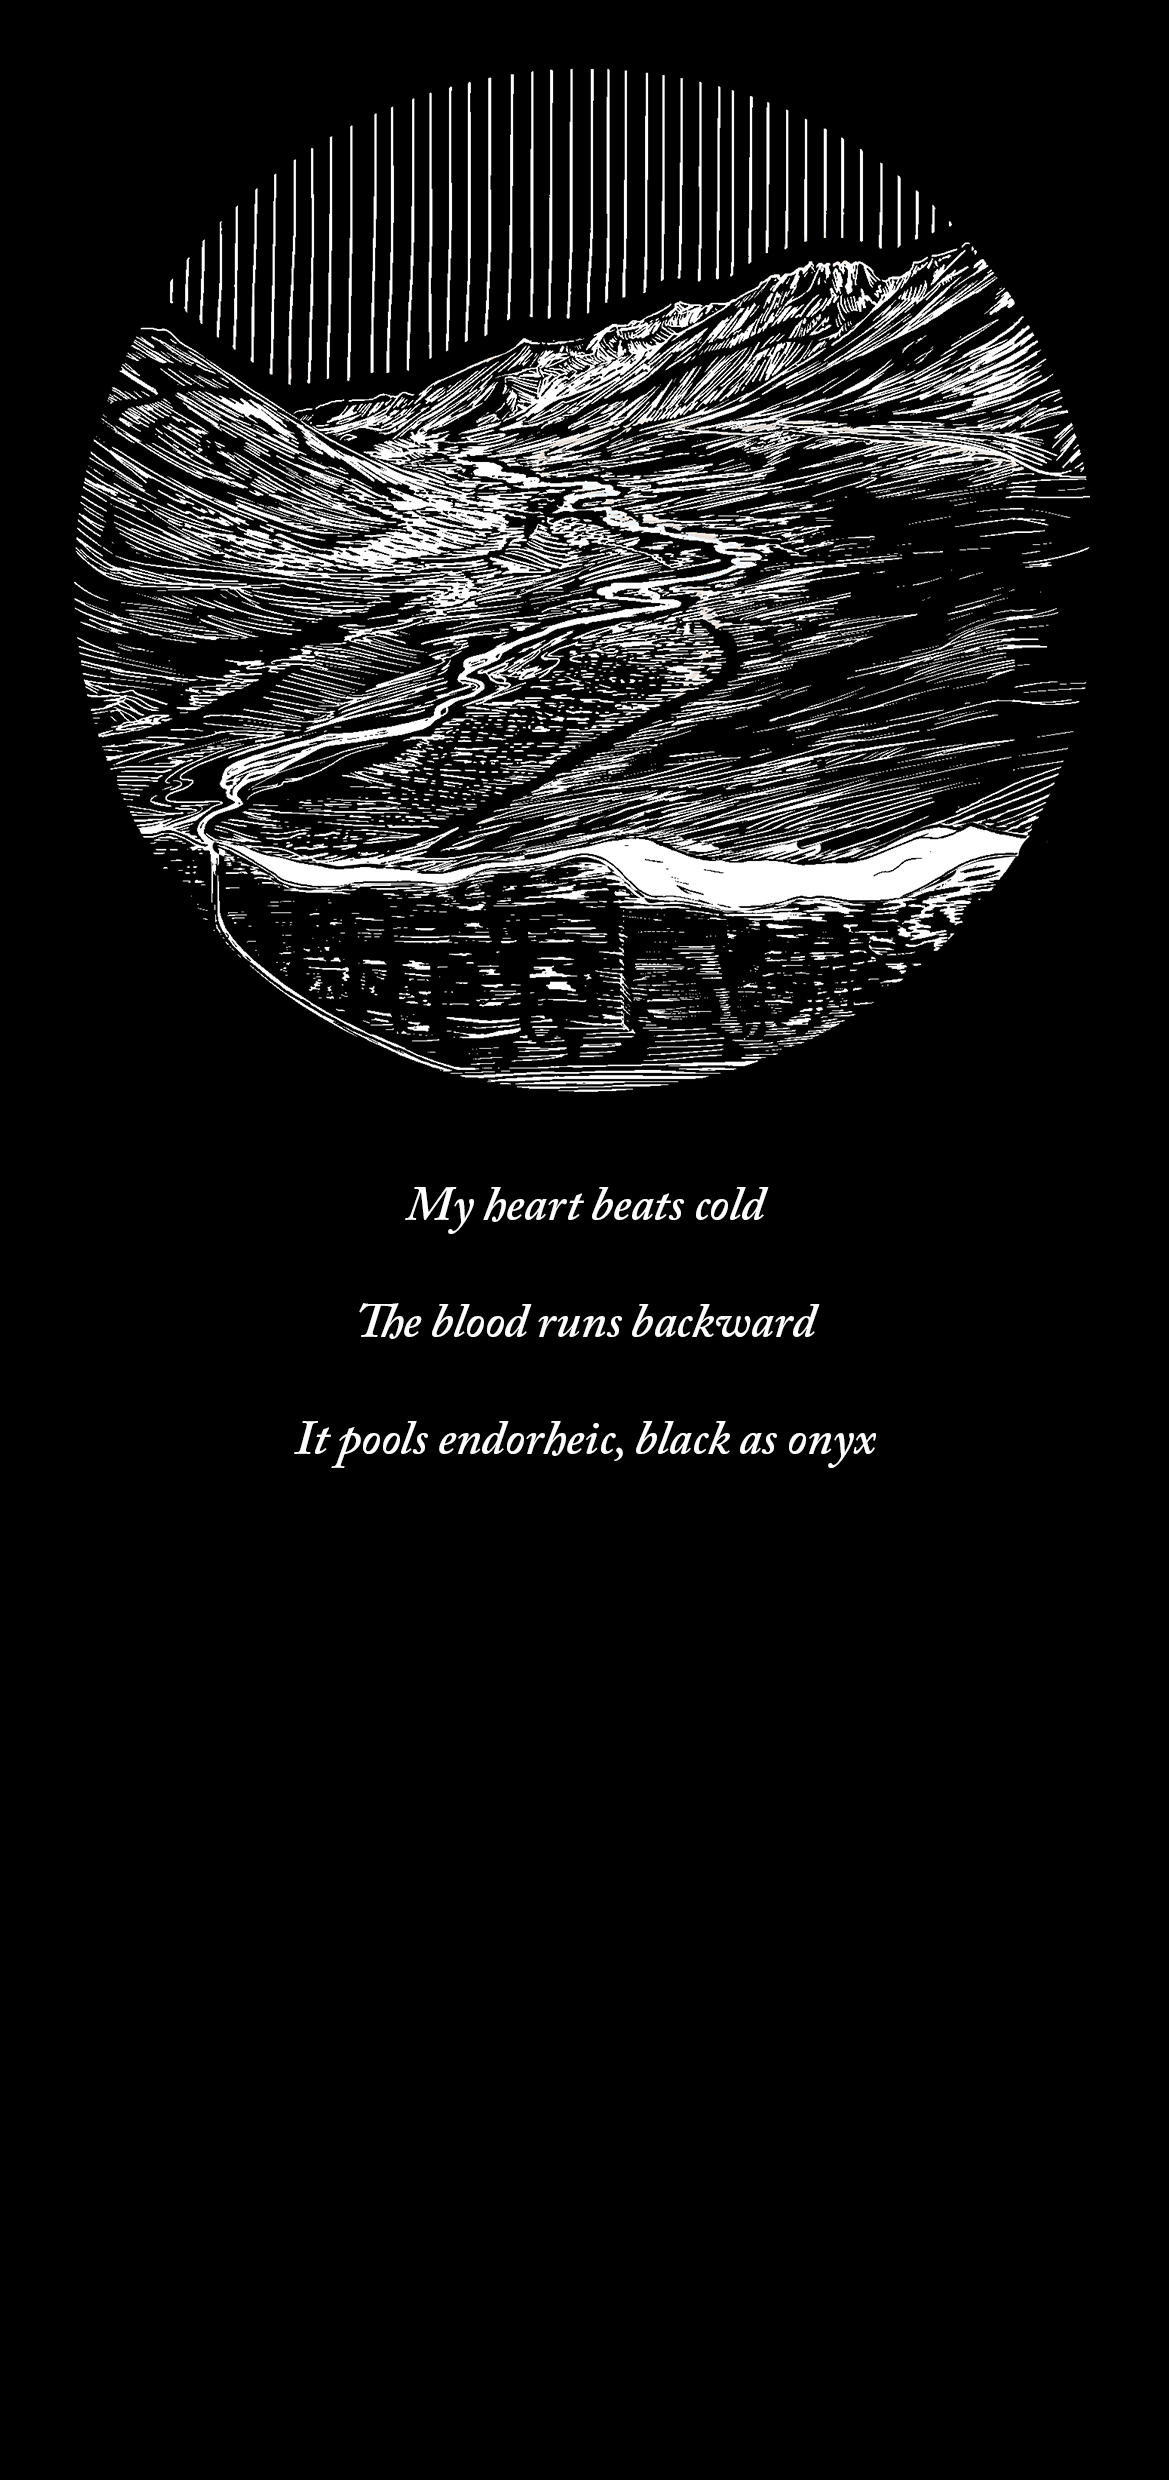
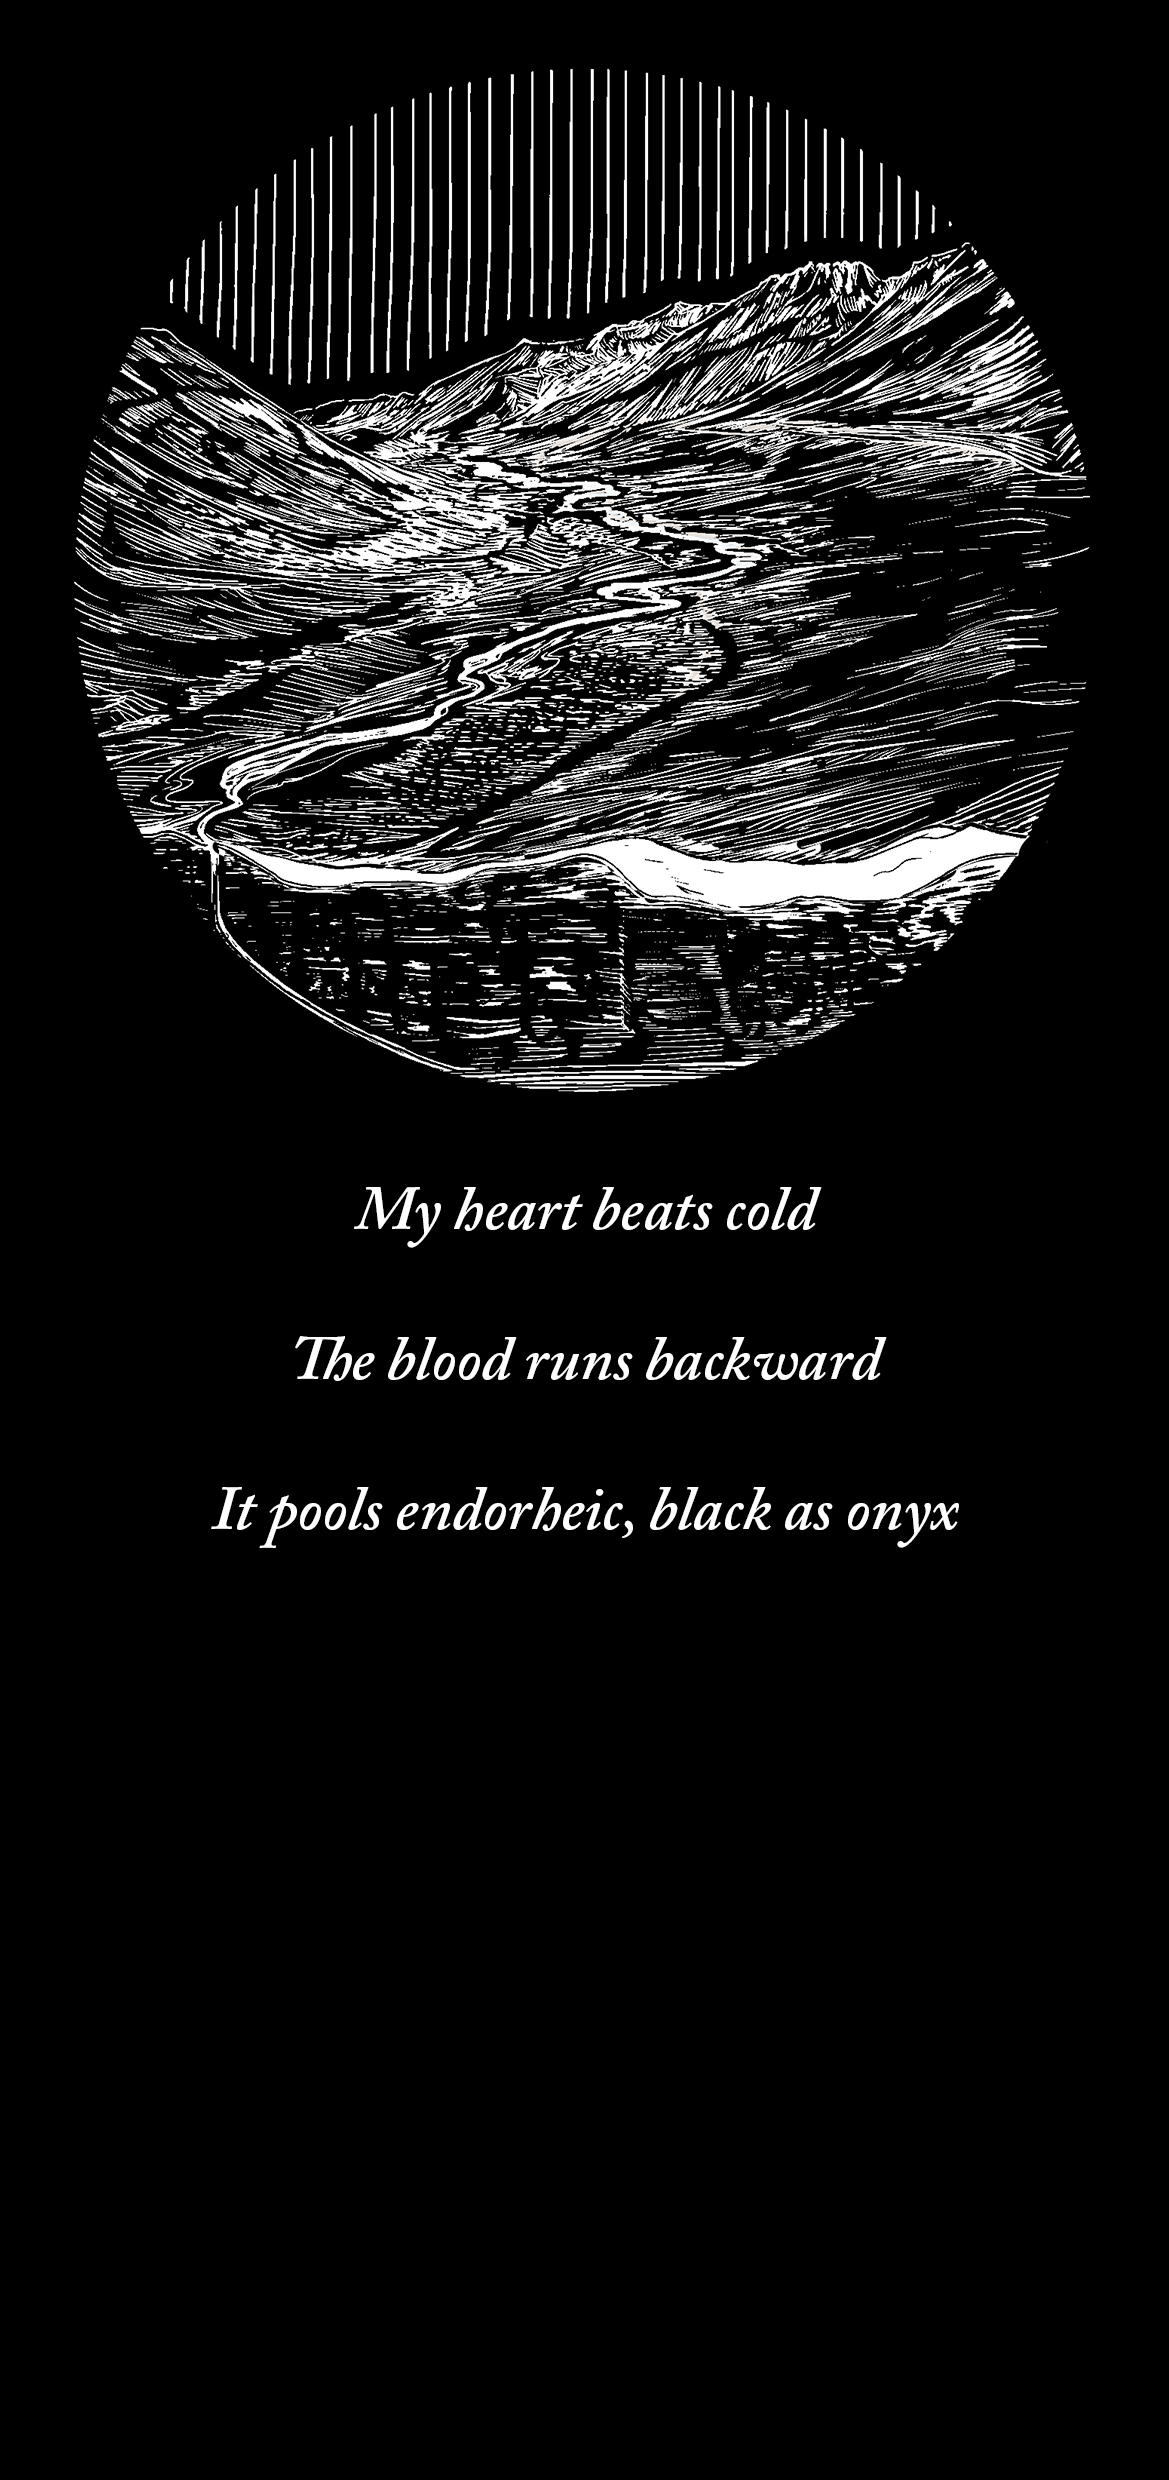
fixups

Changed region(s): [[0.1848, 0.5278, 0.8315, 0.621], [0.308, 0.4657, 0.7083, 0.4968]]

diff --git a/mobilestylesheet.css b/mobilestylesheet.css
@@ -453,6 +453,8 @@ mark {
     font-weight:600;
      text-align: center;
     position: absolute;
+    overflow:visible;
+    width:100%;
     left: 50%;
     top: 50%;
     transform: translate(-50%, -50%);
@@ -622,6 +624,8 @@ h2{
     text-decoration: none;
     margin-left: auto;
     margin-right: auto;
+    padding-left:6px;
+    padding-right:6px;
     margin-top:15%;
     line-height: 50px;
     z-index: 4;
@@ -665,8 +669,8 @@ h2{
 .poemimage{
     position:absolute;
     top:50%;
-    left:12.5%;
-    width:75%;
+    left:10%;
+    width:80%;
     opacity:100%;
     overflow:hidden;
     margin-left:0px;

diff --git a/stylesheet.css b/stylesheet.css
@@ -638,6 +638,8 @@ h2{
     text-decoration: none;
     margin-left: auto;
     margin-right: auto;
+    padding-left:10px;
+    padding-right:10px;
     margin-top:35px;
     line-height: 50px;
     z-index: 4;
@@ -682,9 +684,9 @@ h2{
 }
 .poemimage{
     position:absolute;
-    top:50%;
-    left:40%;
-    width:20%;
+    top: -87px;
+    left: 37.5%;
+    width: 25%;
     opacity:100%;
     overflow:hidden;
     margin-left:0px;
